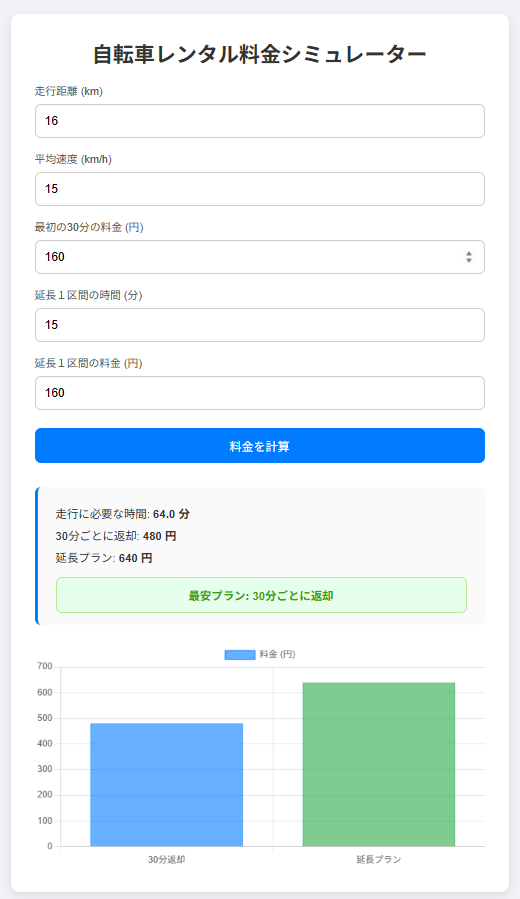
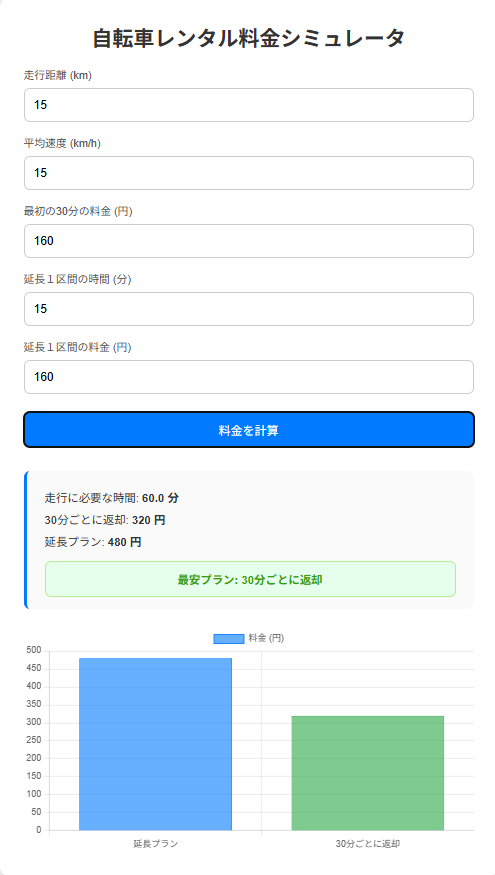
語記修正

diff --git a/rent_cycle_calc.html b/rent_cycle_calc.html
@@ -4,7 +4,7 @@
 <head>
     <meta charset="UTF-8">
     <meta name="viewport" content="width=device-width, initial-scale=1.0">
-    <title>レンタル自転車料金シミュレータ</title>
+    <title>自転車レンタル料金シミュレータ</title>
     <style>
         body {
             font-family: 'Helvetica Neue', Arial, sans-serif;
@@ -101,7 +101,7 @@
 
 <body>
     <div class="container">
-        <h1>レンタル自転車料金シミュレータ</h1>
+        <h1>自転車レンタル料金シミュレータ</h1>
         <form id="calcForm">
             <label>
                 走行距離 (km)
@@ -159,7 +159,7 @@
             } else if (costExtend < costReturn) {
                 html += `<div class="best">最安プラン: 延長プラン</div>`;
             } else {
-                html += `<div class="best">両プランとも同額です</div>`;
+                html += `<div class="best">両プランとも同額</div>`;
             }
 
             const output = document.getElementById('output');
@@ -174,10 +174,10 @@
             chartInstance = new Chart(ctx, {
                 type: 'bar',
                 data: {
-                    labels: ['30分返却', '延長プラン'],
+                    labels: ['延長プラン', '30分ごとに返却'],
                     datasets: [{
                         label: '料金 (円)',
-                        data: [costReturn, costExtend],
+                        data: [costExtend, costReturn],
                         backgroundColor: ['rgba(0, 123, 255, 0.6)', 'rgba(40, 167, 69, 0.6)'],
                         borderColor: ['rgba(0, 123, 255, 1)', 'rgba(40, 167, 69, 1)'],
                         borderWidth: 1
@@ -193,5 +193,4 @@
         }
     </script>
 </body>
-
 </html>
